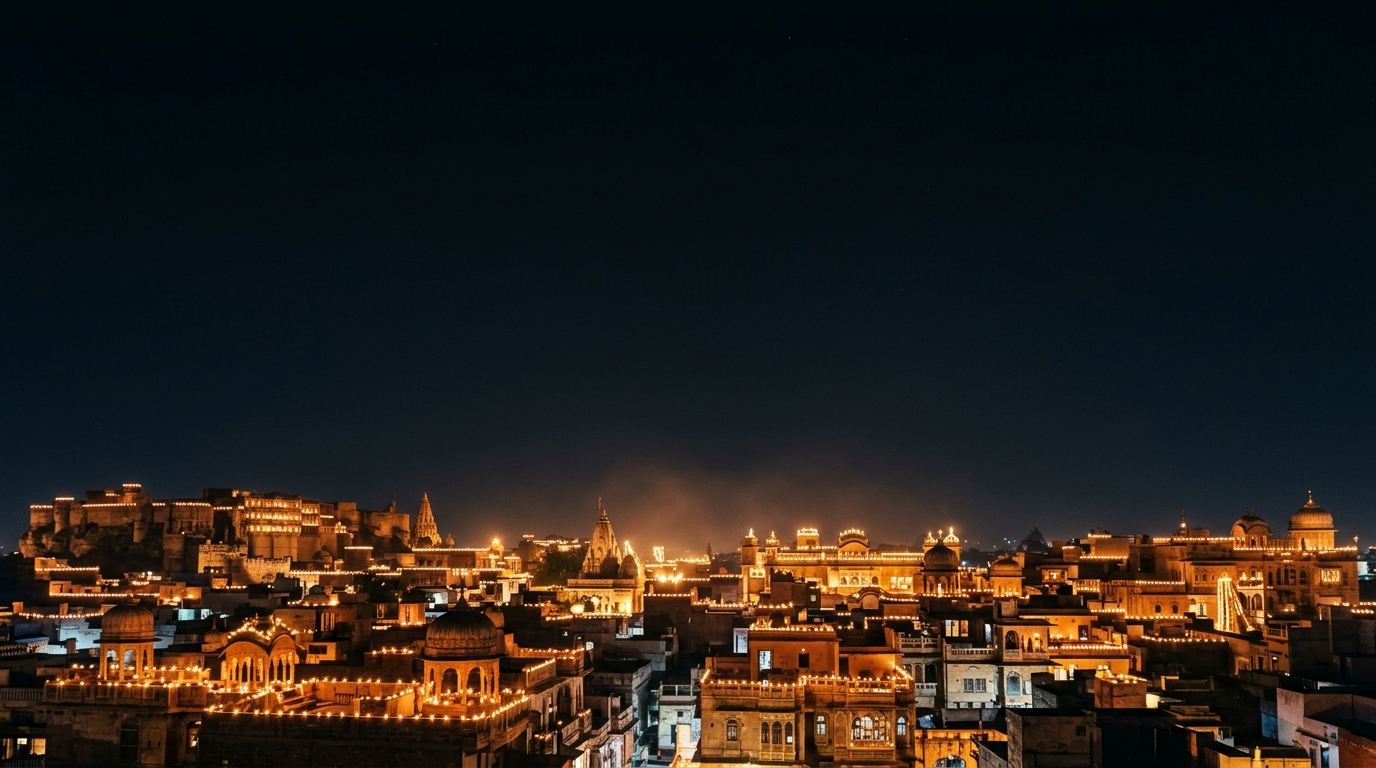
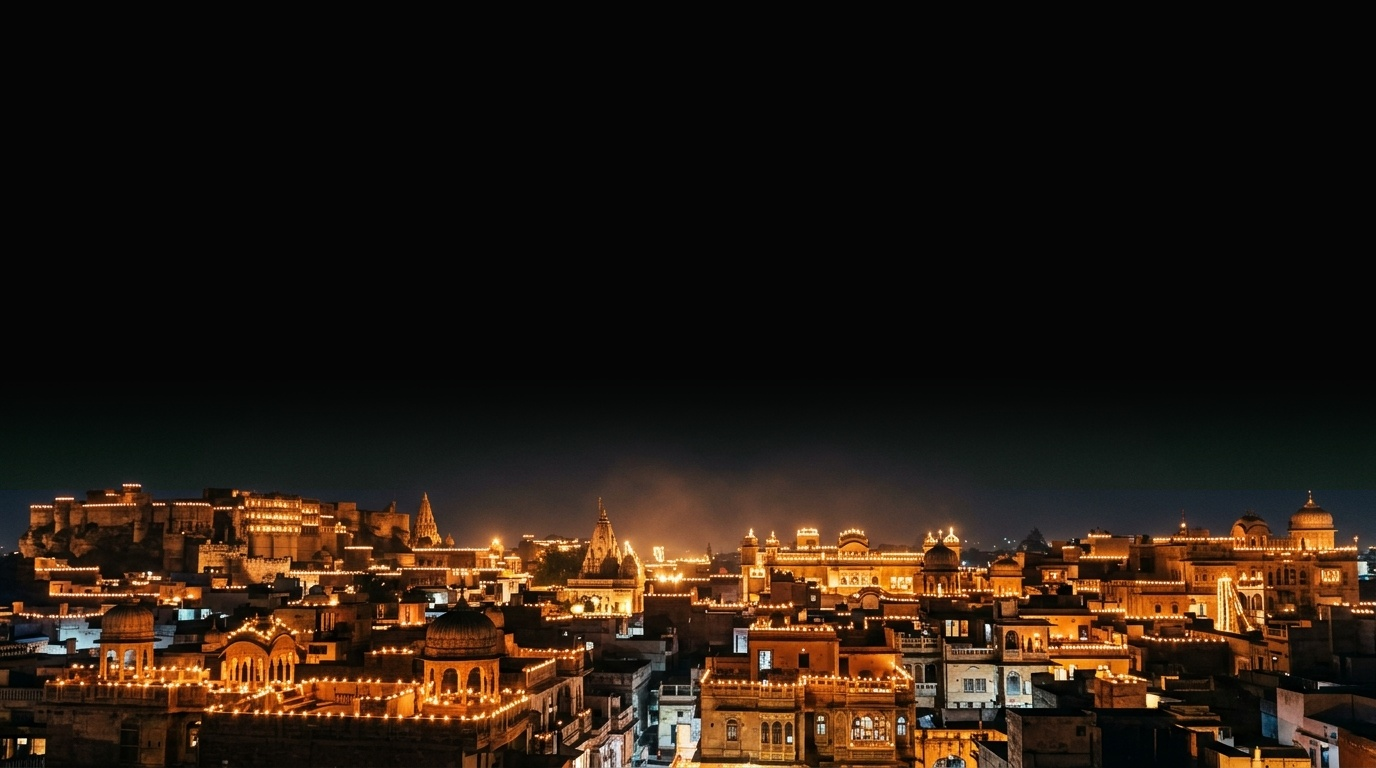
style: make sky deep night dark while keeping lit city vibrant

Changed region(s): [[0.0, 0.4062, 1.0, 0.5625]]

diff --git a/style.css b/style.css
@@ -12,7 +12,7 @@
 }
 
 :root {
-    --bg: #0d0d0d;
+    --bg: #050505;
     --gold-1: #fff7d6;
     --gold-2: #ffd700;
     --gold-3: #ff9900;
@@ -26,7 +26,7 @@ html, body {
     min-height: 100dvh;
     overflow: hidden;
     position: fixed;
-    background: radial-gradient(ellipse at 50% 25%, #1e1e1e 0%, #131313 55%, #0c0c0c 100%);
+    background: #050505;
     font-family: 'Plus Jakarta Sans', -apple-system, sans-serif;
     color: #ffffff;
     touch-action: manipulation;
@@ -53,9 +53,11 @@ html, body {
     height: 100%;
     background: linear-gradient(
         to bottom,
-        rgba(12, 12, 12, 0.88) 0%,
-        rgba(16, 16, 16, 0.58) 42%,
-        rgba(20, 20, 20, 0.16) 75%,
+        #050505 0%,
+        #050505 45%,
+        rgba(5, 5, 5, 0.85) 55%,
+        rgba(5, 5, 5, 0.25) 65%,
+        transparent 75%,
         transparent 100%
     );
     pointer-events: none;
@@ -83,7 +85,7 @@ html, body {
     display: flex;
     align-items: center;
     justify-content: center;
-    background: radial-gradient(circle at center, #232323 0%, #151515 50%, #0d0d0d 90%);
+    background: #050505;
     transition: opacity 0.35s ease, transform 0.35s ease;
 }
 
